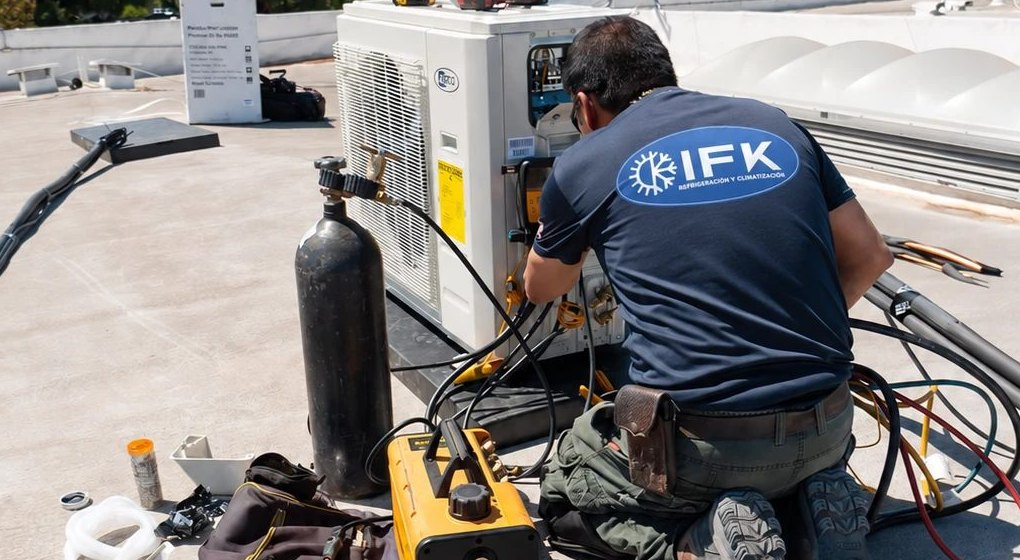
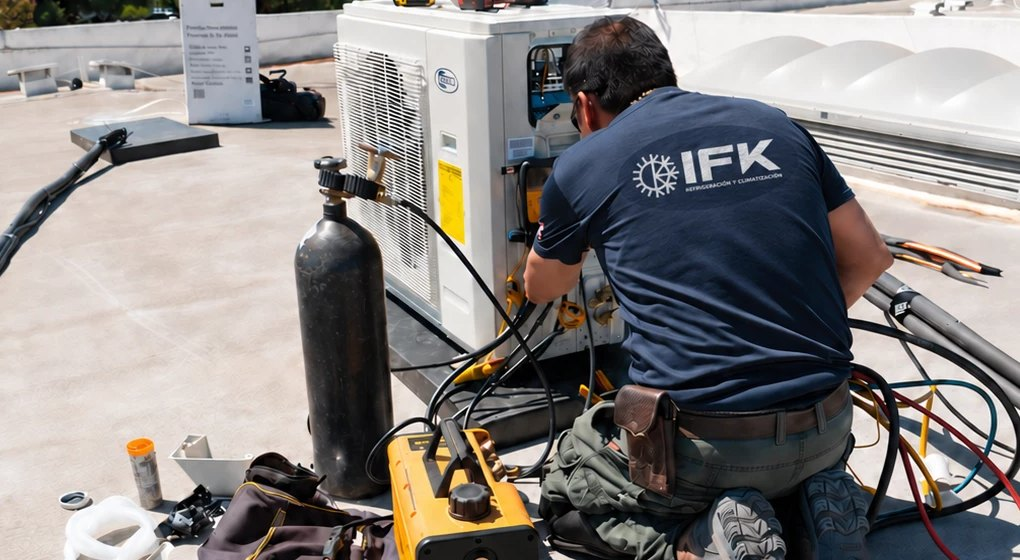
Foto en terreno actualizada: el técnico ya lleva el logotipo nuevo
Reemplaza la fotografía de la sección "Diez años resolviendo frío y clima en
el sur" por la versión que mandó el cliente, donde la polera tiene el
logotipo nuevo. Y se rehace desde ese mismo original la portada de Marcas,
que salía de un encuadre de la foto anterior.

Las dos van sin logo estampado en la esquina: la marca ya está en la espalda
del técnico, y repetirla sobra. marcar-imagen.php aprende a hacerlo: con
"sin" en lugar de la esquina, deja la foto lista pero sin estampar.

diff --git a/herramientas/marcar-imagen.php b/herramientas/marcar-imagen.php
@@ -5,7 +5,8 @@
  *
  *   php herramientas/marcar-imagen.php entrada.jpg assets/img/salida.jpg [esquina] [ancho] [recorte]
  *
- *   esquina: sup-der (por defecto), sup-izq, inf-der, inf-izq
+ *   esquina: sup-der (por defecto), sup-izq, inf-der, inf-izq, o "sin"
+ *            cuando la foto ya muestra el logo por sí sola
  *   ancho:   ancho máximo de la imagen final, en píxeles (1600 por defecto)
  *   recorte: "x,y,ancho,alto" sobre la imagen original; sirve para cortar la
  *            franja donde otra empresa dejó su sello
@@ -46,7 +47,18 @@ if ($w > $ancho) {
     $foto = $chico; $w = $ancho; $h = $nh;
 }
 
-/* 3. El logo, al 11% del ancho de la foto. */
+/* 3. El logo, al 11% del ancho de la foto. Salvo que se pida sin él: hay
+      fotos donde la marca ya aparece —en la polera de un técnico, por
+      ejemplo— y estamparlo otra vez sobra. */
+if ($esquina === 'sin') {
+    $ok = str_ends_with(strtolower($salida), '.png')
+        ? imagepng($foto, $salida, 8)
+        : imagejpeg($foto, $salida, 86);
+    if (!$ok) { fwrite(STDERR, "No pude escribir $salida\n"); exit(1); }
+    printf("%s  ·  %dx%d  ·  %d KB  ·  sin logo estampado\n", $salida, $w, $h, (int)round(filesize($salida) / 1024));
+    exit(0);
+}
+
 $logo = @imagecreatefromwebp(__DIR__ . '/../assets/img/ifk_logo.webp');
 if (!$logo) { fwrite(STDERR, "No encontré assets/img/ifk_logo.webp\n"); exit(1); }
 $lw = (int)round($w * 0.11);
